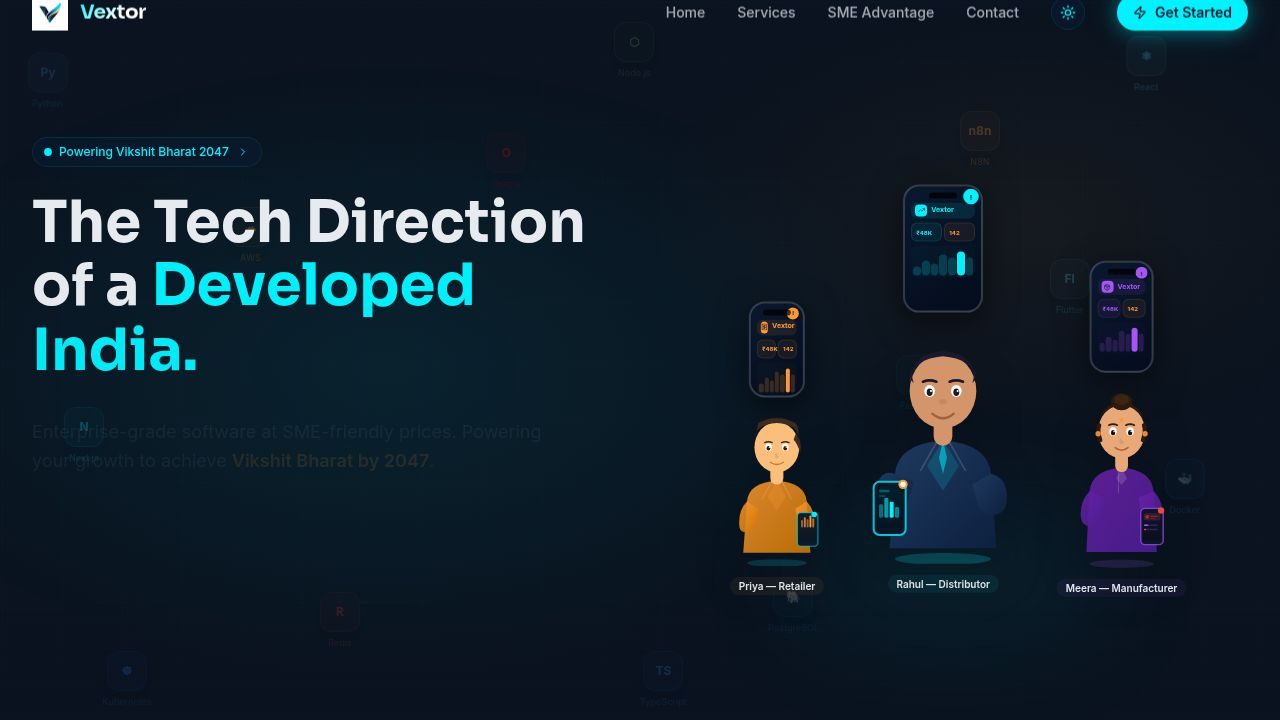
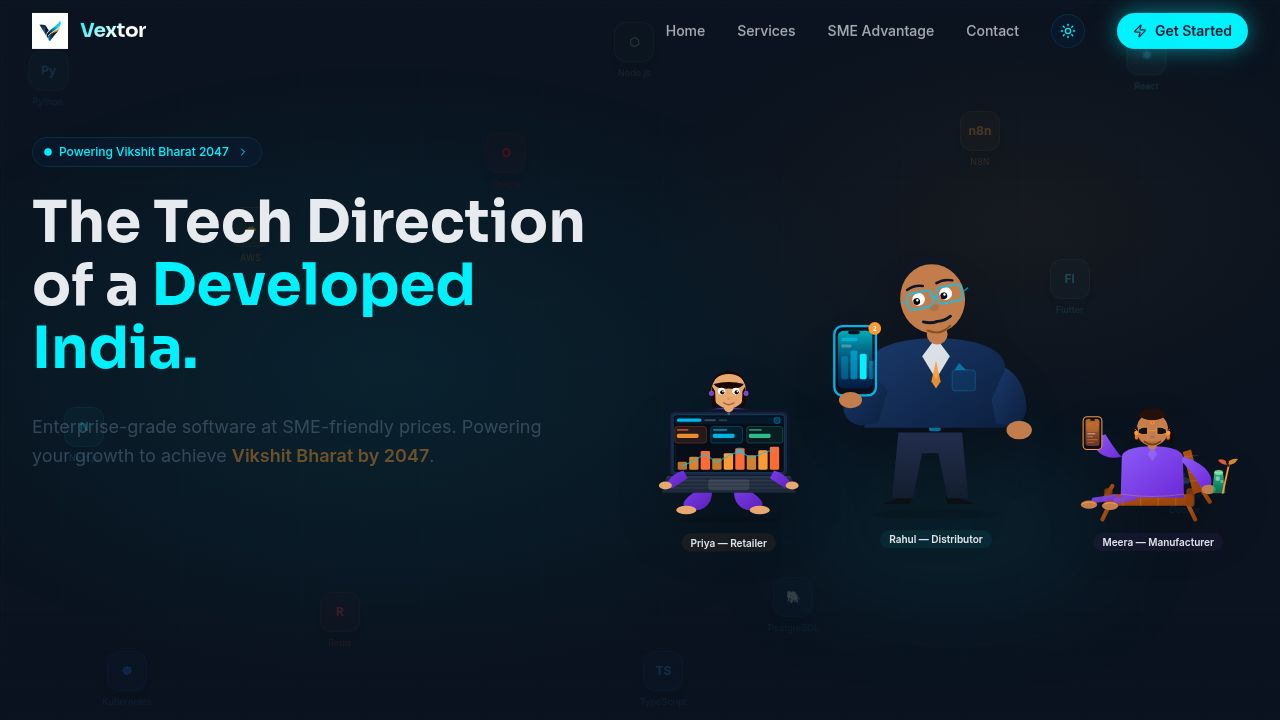
Update character illustration to make laptop the main focus
Rewrite the PersonRetailer component with a corrected viewBox, Z-order, and element coordinates to ensure the laptop is the primary visual element and clearly visible.

Replit-Commit-Author: Agent
Replit-Commit-Session-Id: ac60519d-ee22-433d-b78b-b2dced14c338
Replit-Commit-Checkpoint-Type: full_checkpoint
Replit-Commit-Event-Id: 809c843f-711d-4641-8daa-36c9f2c6302f
Replit-Commit-Screenshot-Url: https://storage.googleapis.com/screenshot-production-us-central1/2904f722-994c-44d7-a856-b37517de9d91/ac60519d-ee22-433d-b78b-b2dced14c338/nio9uct
Replit-Helium-Checkpoint-Created: true

diff --git a/artifacts/vextor-website/src/components/PersonIllustrations.tsx b/artifacts/vextor-website/src/components/PersonIllustrations.tsx
@@ -1,169 +1,130 @@
 /* Professional flat-style character illustrations — transparent backgrounds */
 
-/* ── PRIYA — Professional woman, large glowing laptop front and center ── */
+/* ── PRIYA — Laptop is the hero. Z-order: body → laptop screen → arms → head ── */
 export function PersonRetailer({ className = "" }: { className?: string }) {
   return (
-    <svg viewBox="0 0 240 260" fill="none" xmlns="http://www.w3.org/2000/svg" className={className}>
+    <svg viewBox="0 0 200 220" fill="none" xmlns="http://www.w3.org/2000/svg" className={className}>
       <defs>
-        <linearGradient id="pr3-jacket" x1="0%" y1="0%" x2="100%" y2="100%">
-          <stop offset="0%" stopColor="#0891B2" />
-          <stop offset="100%" stopColor="#0E7490" />
+        <linearGradient id="pr-outfit" x1="0%" y1="0%" x2="100%" y2="100%">
+          <stop offset="0%" stopColor="#7C3AED" />
+          <stop offset="100%" stopColor="#5B21B6" />
         </linearGradient>
-        <linearGradient id="pr3-screen" x1="0%" y1="0%" x2="100%" y2="100%">
-          <stop offset="0%" stopColor="#050D1E" />
-          <stop offset="100%" stopColor="#081525" />
-        </linearGradient>
-        <linearGradient id="pr3-screenglow" x1="0%" y1="100%" x2="0%" y2="0%">
-          <stop offset="0%" stopColor="#FF6B35" stopOpacity="0.08" />
-          <stop offset="100%" stopColor="#00C8FF" stopOpacity="0.06" />
-        </linearGradient>
-        <filter id="pr3-glow">
-          <feGaussianBlur stdDeviation="2" result="blur" />
-          <feComposite in="SourceGraphic" in2="blur" operator="over" />
-        </filter>
       </defs>
 
-      {/* Ground shadow */}
-      <ellipse cx="120" cy="254" rx="80" ry="6" fill="rgba(0,0,0,0.13)" />
+      {/* 1 · Ground shadow */}
+      <ellipse cx="100" cy="216" rx="70" ry="5" fill="rgba(0,0,0,0.15)" />
 
-      {/* ── Legs / Lower body ── */}
-      {/* Left leg forward */}
-      <path d="M78 210 Q56 214 44 228 Q38 238 56 240 Q76 242 88 226 Q94 216 88 208Z" fill="url(#pr3-jacket)" />
-      {/* Right leg */}
-      <path d="M145 210 Q166 214 178 228 Q184 238 166 240 Q146 242 134 226 Q128 216 134 208Z" fill="url(#pr3-jacket)" />
-      {/* Feet */}
-      <ellipse cx="50" cy="240" rx="16" ry="7" fill="#E8A870" />
-      <ellipse cx="172" cy="240" rx="16" ry="7" fill="#E8A870" />
+      {/* 2 · Cross-legged lower body (behind keyboard) */}
+      <path d="M66 172 Q48 176 38 190 Q34 200 50 202 Q66 204 74 190 Q78 181 76 170Z" fill="url(#pr-outfit)" />
+      <path d="M118 172 Q136 176 146 190 Q150 200 134 202 Q118 204 110 190 Q106 181 108 170Z" fill="url(#pr-outfit)" />
+      <ellipse cx="41" cy="202" rx="14" ry="6" fill="#E8A870" />
+      <ellipse cx="143" cy="202" rx="14" ry="6" fill="#E8A870" />
 
-      {/* ── LAPTOP — the star of the show ── */}
+      {/* 3 · Torso (mostly hidden behind laptop, shoulders peek at sides) */}
+      <path d="M55 72 Q57 62 100 60 Q143 62 145 72 L146 160 H54Z" fill="url(#pr-outfit)" />
+      <path d="M100 60 L93 74 L100 84 L107 74Z" fill="rgba(255,255,255,0.88)" />
 
-      {/* Keyboard base with perspective */}
-      <path d="M22 210 L218 210 L225 235 L15 235Z" fill="#1E2D45" />
-      {/* Keyboard surface */}
-      <path d="M26 208 L214 208 L218 210 L22 210Z" fill="#243652" />
-      {/* Key rows (subtle) */}
-      <rect x="30" y="212" width="180" height="3" rx="1.5" fill="rgba(255,255,255,0.06)" />
-      <rect x="30" y="217" width="180" height="3" rx="1.5" fill="rgba(255,255,255,0.05)" />
-      <rect x="30" y="222" width="180" height="3" rx="1.5" fill="rgba(255,255,255,0.04)" />
-      {/* Trackpad */}
-      <rect x="90" y="214" width="60" height="14" rx="3" fill="rgba(255,255,255,0.08)" stroke="rgba(255,255,255,0.12)" strokeWidth="0.6" />
-      {/* Hinge */}
-      <rect x="22" y="205" width="196" height="6" rx="2" fill="#162030" />
+      {/* ━━━━━━━━━━━━━━━━━━━━━━━━━━━━━━━━━━━
+          4 · LAPTOP SCREEN — the hero element
+          Screen: x=15 y=62 w=170 h=96
+          All coordinates fit within 200×220 viewBox
+          ━━━━━━━━━━━━━━━━━━━━━━━━━━━━━━━━━━━ */}
 
-      {/* Screen back (lid) */}
-      <rect x="24" y="95" width="192" height="114" rx="8" fill="#162030" />
-      {/* Screen bezel */}
-      <rect x="28" y="99" width="184" height="106" rx="6" fill="#1A2540" />
-      {/* Screen display area */}
-      <rect x="32" y="103" width="176" height="98" rx="4" fill="url(#pr3-screen)" />
-      {/* Screen background glow */}
-      <rect x="32" y="103" width="176" height="98" rx="4" fill="url(#pr3-screenglow)" />
+      {/* Lid back */}
+      <rect x="15" y="62" width="170" height="96" rx="8" fill="#0B1628" />
+      {/* Bezel frame */}
+      <rect x="19" y="66" width="162" height="88" rx="6" fill="#1A2540" />
+      {/* Display */}
+      <rect x="23" y="70" width="154" height="80" rx="4" fill="#060C18" />
 
-      {/* ── Screen content — dashboard ── */}
-      {/* Top bar */}
-      <rect x="34" y="105" width="172" height="12" rx="2" fill="rgba(0,180,255,0.07)" />
-      <rect x="38" y="108" width="40" height="5" rx="2.5" fill="#00C8FF" opacity="0.8" />
-      <rect x="82" y="109" width="24" height="3" rx="1.5" fill="rgba(255,255,255,0.2)" />
-      <rect x="110" y="109" width="20" height="3" rx="1.5" fill="rgba(255,255,255,0.15)" />
-      {/* User avatar icon top-right */}
-      <circle cx="196" cy="111" r="5" fill="rgba(0,200,255,0.2)" stroke="rgba(0,200,255,0.4)" strokeWidth="0.8" />
+      {/* ── Screen content ── */}
+      {/* Header bar */}
+      <rect x="25" y="72" width="150" height="11" rx="2" fill="rgba(0,180,255,0.07)" />
+      <rect x="28" y="75" width="34" height="4.5" rx="2.2" fill="#00C8FF" opacity="0.9" />
+      <rect x="66" y="76" width="16" height="2.5" rx="1.2" fill="rgba(255,255,255,0.22)" />
+      <rect x="86" y="76" width="12" height="2.5" rx="1.2" fill="rgba(255,255,255,0.15)" />
+      <circle cx="167" cy="77.5" r="4.5" fill="rgba(0,200,255,0.22)" stroke="rgba(0,200,255,0.5)" strokeWidth="0.8" />
 
-      {/* Metric cards row */}
-      <rect x="34" y="121" width="52" height="28" rx="4" fill="rgba(255,107,53,0.1)" stroke="rgba(255,107,53,0.3)" strokeWidth="0.8" />
-      <rect x="38" y="124" width="18" height="3" rx="1.5" fill="rgba(255,107,53,0.6)" />
-      <rect x="38" y="130" width="30" height="7" rx="2" fill="rgba(255,107,53,0)" />
-      <text x="38" y="138" fontSize="9" fill="#FF9933" fontFamily="sans-serif" fontWeight="bold">₹2.4L</text>
+      {/* Stat cards */}
+      <rect x="25" y="86" width="44" height="23" rx="3.5" fill="rgba(255,107,53,0.13)" stroke="rgba(255,107,53,0.45)" strokeWidth="0.8" />
+      <rect x="28" y="89.5" width="16" height="2.5" rx="1.2" fill="rgba(255,107,53,0.65)" />
+      <rect x="28" y="96" width="30" height="6" rx="2" fill="#FF9933" opacity="0.9" />
 
-      <rect x="92" y="121" width="52" height="28" rx="4" fill="rgba(0,200,255,0.08)" stroke="rgba(0,200,255,0.25)" strokeWidth="0.8" />
-      <rect x="96" y="124" width="22" height="3" rx="1.5" fill="rgba(0,200,255,0.5)" />
-      <text x="96" y="138" fontSize="9" fill="#00C8FF" fontFamily="sans-serif" fontWeight="bold">+18%</text>
+      <rect x="75" y="86" width="44" height="23" rx="3.5" fill="rgba(0,200,255,0.09)" stroke="rgba(0,200,255,0.42)" strokeWidth="0.8" />
+      <rect x="78" y="89.5" width="20" height="2.5" rx="1.2" fill="rgba(0,200,255,0.6)" />
+      <rect x="78" y="96" width="30" height="6" rx="2" fill="#00C8FF" opacity="0.88" />
 
-      <rect x="150" y="121" width="52" height="28" rx="4" fill="rgba(52,211,153,0.08)" stroke="rgba(52,211,153,0.25)" strokeWidth="0.8" />
-      <rect x="154" y="124" width="20" height="3" rx="1.5" fill="rgba(52,211,153,0.5)" />
-      <text x="154" y="138" fontSize="9" fill="#34D399" fontFamily="sans-serif" fontWeight="bold">142</text>
+      <rect x="125" y="86" width="50" height="23" rx="3.5" fill="rgba(52,211,153,0.09)" stroke="rgba(52,211,153,0.42)" strokeWidth="0.8" />
+      <rect x="128" y="89.5" width="18" height="2.5" rx="1.2" fill="rgba(52,211,153,0.6)" />
+      <rect x="128" y="96" width="30" height="6" rx="2" fill="#34D399" opacity="0.88" />
 
       {/* Bar chart */}
-      <line x1="36" y1="154" x2="36" y2="193" stroke="rgba(255,255,255,0.1)" strokeWidth="1" />
-      <line x1="36" y1="193" x2="200" y2="193" stroke="rgba(255,255,255,0.1)" strokeWidth="1" />
-      {/* Bars — tall and vibrant */}
-      <rect x="40" y="176" width="14" height="17" rx="2.5" fill="#FF9933" opacity="0.75" />
-      <rect x="58" y="165" width="14" height="28" rx="2.5" fill="#FF9933" opacity="0.9" />
-      <rect x="76" y="157" width="14" height="36" rx="2.5" fill="#FF6B35" />
-      <rect x="94" y="168" width="14" height="25" rx="2.5" fill="#FF9933" opacity="0.8" />
-      <rect x="112" y="160" width="14" height="33" rx="2.5" fill="#FF9933" />
-      <rect x="130" y="154" width="14" height="39" rx="2.5" fill="#FF6B35" />
-      <rect x="148" y="163" width="14" height="30" rx="2.5" fill="#FF9933" opacity="0.85" />
-      <rect x="166" y="159" width="14" height="34" rx="2.5" fill="#FF9933" />
-      <rect x="184" y="155" width="14" height="38" rx="2.5" fill="#FF6B35" />
-      {/* Chart line overlay */}
-      <path d="M47 184 L65 173 L83 161 L101 175 L119 164 L137 158 L155 170 L173 163 L191 159" stroke="rgba(0,200,255,0.6)" strokeWidth="1.5" fill="none" strokeDasharray="3,2" />
-      {/* Cursor glow */}
-      <circle cx="137" cy="158" r="3.5" fill="#00C8FF" opacity="0.9" />
-      <circle cx="137" cy="158" r="7" fill="rgba(0,200,255,0.2)" />
+      <line x1="26" y1="112" x2="26" y2="146" stroke="rgba(255,255,255,0.09)" strokeWidth="0.8" />
+      <line x1="26" y1="146" x2="174" y2="146" stroke="rgba(255,255,255,0.09)" strokeWidth="0.8" />
 
-      {/* Screen edge glow */}
-      <rect x="32" y="103" width="176" height="98" rx="4" fill="none" stroke="rgba(0,200,255,0.18)" strokeWidth="1" />
-      {/* Screen glare highlight */}
-      <path d="M34 105 L120 105 L100 115 L34 115Z" fill="rgba(255,255,255,0.025)" />
+      <rect x="29" y="135" width="13" height="11" rx="2" fill="#FF9933" opacity="0.72" />
+      <rect x="45" y="128" width="13" height="18" rx="2" fill="#FF9933" opacity="0.85" />
+      <rect x="61" y="120" width="13" height="26" rx="2" fill="#FF6B35" />
+      <rect x="77" y="130" width="13" height="16" rx="2" fill="#FF9933" opacity="0.78" />
+      <rect x="93" y="123" width="13" height="23" rx="2" fill="#FF9933" />
+      <rect x="109" y="116" width="13" height="30" rx="2" fill="#FF6B35" />
+      <rect x="125" y="126" width="13" height="20" rx="2" fill="#FF9933" opacity="0.82" />
+      <rect x="141" y="119" width="13" height="27" rx="2" fill="#FF9933" />
+      <rect x="157" y="114" width="13" height="32" rx="2" fill="#FF6B35" />
 
-      {/* Notch (webcam) */}
-      <circle cx="120" cy="101" r="2.5" fill="rgba(255,255,255,0.15)" />
+      {/* Trend line */}
+      <path d="M35 141 L51 134 L67 124 L83 136 L99 127 L115 120 L131 130 L147 123 L163 118"
+        stroke="rgba(0,200,255,0.72)" strokeWidth="1.6" fill="none" />
+      {/* Cursor */}
+      <circle cx="115" cy="120" r="2.5" fill="#00C8FF" />
+      <circle cx="115" cy="120" r="5.5" fill="rgba(0,200,255,0.22)" />
 
-      {/* ── Character — visible above screen ── */}
+      {/* Screen glow border */}
+      <rect x="23" y="70" width="154" height="80" rx="4" fill="none" stroke="rgba(0,200,255,0.22)" strokeWidth="1.2" />
+      {/* Webcam */}
+      <circle cx="100" cy="68" r="2.2" fill="rgba(255,255,255,0.22)" />
 
-      {/* Left arm reaching to keyboard */}
-      <path d="M44 175 Q28 178 22 195 L30 200 L50 185Z" fill="url(#pr3-jacket)" />
-      <ellipse cx="22" cy="198" rx="10" ry="6" fill="#E8A870" />
-      {/* Right arm */}
-      <path d="M196 175 Q212 178 218 195 L210 200 L190 185Z" fill="url(#pr3-jacket)" />
-      <ellipse cx="218" cy="198" rx="10" ry="6" fill="#E8A870" />
+      {/* ━━━━━━━━━━━━━━━━━━━━━━━━━━━━━
+          5 · KEYBOARD BASE (over legs)
+          ━━━━━━━━━━━━━━━━━━━━━━━━━━━━━ */}
+      <path d="M13 157 L187 157 L193 178 L7 178Z" fill="#1E293B" />
+      <path d="M15 155 L185 155 L187 157 L13 157Z" fill="#334155" />
+      <rect x="19" y="160" width="162" height="2.5" rx="1.2" fill="rgba(255,255,255,0.07)" />
+      <rect x="19" y="165" width="162" height="2.5" rx="1.2" fill="rgba(255,255,255,0.06)" />
+      <rect x="19" y="170" width="162" height="2.5" rx="1.2" fill="rgba(255,255,255,0.05)" />
+      <rect x="72" y="160" width="56" height="14" rx="3" fill="rgba(255,255,255,0.09)" stroke="rgba(255,255,255,0.13)" strokeWidth="0.6" />
 
-      {/* Torso — visible at sides and above laptop */}
-      <path d="M58 120 Q60 100 120 98 Q180 100 182 120 L184 212 H56Z" fill="url(#pr3-jacket)" />
-      {/* White collar */}
-      <path d="M120 98 L112 112 L120 122 L128 112Z" fill="rgba(255,255,255,0.9)" />
-      {/* Jacket lapels */}
-      <path d="M112 112 L68 130 L60 180" stroke="rgba(255,255,255,0.25)" strokeWidth="1.5" fill="none" />
-      <path d="M128 112 L172 130 L180 180" stroke="rgba(255,255,255,0.25)" strokeWidth="1.5" fill="none" />
+      {/* 6 · Arms reaching around to keyboard */}
+      <path d="M37 147 Q21 151 13 166 L21 172 L43 158Z" fill="url(#pr-outfit)" />
+      <ellipse cx="12" cy="168" rx="9" ry="5.5" fill="#E8A870" />
+      <path d="M163 147 Q179 151 187 166 L179 172 L157 158Z" fill="url(#pr-outfit)" />
+      <ellipse cx="188" cy="168" rx="9" ry="5.5" fill="#E8A870" />
 
-      {/* Neck */}
-      <rect x="112" y="84" width="16" height="18" rx="8" fill="#E8A870" />
+      {/* 7 · Neck */}
+      <rect x="93" y="52" width="14" height="14" rx="7" fill="#E8A870" />
 
-      {/* ── Head — new character ── */}
-      <ellipse cx="120" cy="68" rx="28" ry="29" fill="#E8A870" />
+      {/* 8 · Head */}
+      <ellipse cx="100" cy="36" rx="24" ry="25" fill="#E8A870" />
 
-      {/* Hair — straight black bob with fringe */}
-      {/* Top and sides */}
-      <path d="M93 62 Q92 36 120 34 Q148 36 148 62 Q146 40 120 38 Q94 40 93 62Z" fill="#1A0800" />
-      {/* Bob cut sides — straight */}
-      <path d="M93 62 L90 82 Q92 90 96 88 L96 62Z" fill="#1A0800" />
-      <path d="M148 62 L150 82 Q148 90 144 88 L144 62Z" fill="#1A0800" />
-      {/* Fringe/bangs across forehead */}
-      <path d="M95 52 Q120 46 145 52 Q140 60 120 58 Q100 60 95 52Z" fill="#1A0800" />
+      {/* 9 · Hair — straight bob with fringe */}
+      <path d="M77 30 Q77 11 100 9 Q123 11 123 30 Q121 14 100 13 Q79 14 77 30Z" fill="#1A0800" />
+      <path d="M77 30 Q75 44 77 56 Q79 62 83 59 Q81 49 81 37Z" fill="#1A0800" />
+      <path d="M123 30 Q125 44 123 56 Q121 62 117 59 Q119 49 119 37Z" fill="#1A0800" />
+      <path d="M79 27 Q100 21 121 27 Q116 35 100 33 Q84 35 79 27Z" fill="#1A0800" />
 
-      {/* Eyes — wide, almond shaped */}
-      <ellipse cx="106" cy="66" rx="6" ry="5.5" fill="white" />
-      <ellipse cx="134" cy="66" rx="6" ry="5.5" fill="white" />
-      {/* Pupils */}
-      <ellipse cx="107" cy="67.5" rx="3.2" ry="3.2" fill="#1A0800" />
-      <ellipse cx="135" cy="67.5" rx="3.2" ry="3.2" fill="#1A0800" />
-      <circle cx="108" cy="66.5" r="1.2" fill="white" />
-      <circle cx="136" cy="66.5" r="1.2" fill="white" />
-
-      {/* Eyebrows — neat, arched */}
-      <path d="M99 57 Q106 54 113 56" stroke="#1A0800" strokeWidth="2.2" strokeLinecap="round" fill="none" />
-      <path d="M127 56 Q134 54 141 57" stroke="#1A0800" strokeWidth="2.2" strokeLinecap="round" fill="none" />
-
-      {/* Nose */}
-      <path d="M119 75 Q117 79 119 81 Q121 81 123 79 Q121 79 119 75Z" fill="rgba(0,0,0,0.08)" />
-
-      {/* Smile — warm and focused */}
-      <path d="M110 87 Q120 93 130 87" stroke="#B56030" strokeWidth="2" strokeLinecap="round" fill="none" />
-      <path d="M110 87 Q115 91 120 92 Q125 91 130 87" fill="rgba(181,96,48,0.15)" />
-
-      {/* Stud earrings — teal */}
-      <circle cx="92" cy="71" r="3.5" fill="#0891B2" stroke="rgba(255,255,255,0.4)" strokeWidth="0.8" />
-      <circle cx="148" cy="71" r="3.5" fill="#0891B2" stroke="rgba(255,255,255,0.4)" strokeWidth="0.8" />
+      {/* 10 · Face */}
+      <ellipse cx="90" cy="37" rx="5.2" ry="4.8" fill="white" />
+      <ellipse cx="110" cy="37" rx="5.2" ry="4.8" fill="white" />
+      <ellipse cx="91" cy="38.5" rx="2.9" ry="2.9" fill="#1A0800" />
+      <ellipse cx="111" cy="38.5" rx="2.9" ry="2.9" fill="#1A0800" />
+      <circle cx="92" cy="37.5" r="1.1" fill="white" />
+      <circle cx="112" cy="37.5" r="1.1" fill="white" />
+      <path d="M84 29.5 Q90 27 96 29" stroke="#1A0800" strokeWidth="2" strokeLinecap="round" fill="none" />
+      <path d="M104 29 Q110 27 116 29.5" stroke="#1A0800" strokeWidth="2" strokeLinecap="round" fill="none" />
+      <path d="M99 44 Q97 47.5 99 49.5 Q101 49.5 103 47.5 Q101 47.5 99 44Z" fill="rgba(0,0,0,0.09)" />
+      <path d="M93 53 Q100 58.5 107 53" stroke="#B06030" strokeWidth="2" strokeLinecap="round" fill="none" />
+      <circle cx="76" cy="40" r="3.2" fill="#7C3AED" stroke="rgba(255,255,255,0.3)" strokeWidth="0.8" />
+      <circle cx="124" cy="40" r="3.2" fill="#7C3AED" stroke="rgba(255,255,255,0.3)" strokeWidth="0.8" />
     </svg>
   );
 }
@@ -320,7 +281,7 @@ export function PersonManufacturer({ className = "" }: { className?: string }) {
       <line x1="180" y1="162" x2="180" y2="182" stroke="rgba(255,255,255,0.15)" strokeWidth="1.5" />
 
       {/* Chair backrest — angled upward to the right */}
-      <path d="M192 90 L210 162 L224 158 L206 86Z" fill="url(#mf2-chair)" rx="4" />
+      <path d="M192 90 L210 162 L224 158 L206 86Z" fill="url(#mf2-chair)" />
       {/* Backrest slats */}
       <line x1="195" y1="98" x2="218" y2="96" stroke="rgba(255,255,255,0.15)" strokeWidth="1.5" />
       <line x1="198" y1="112" x2="220" y2="110" stroke="rgba(255,255,255,0.15)" strokeWidth="1.5" />
@@ -423,9 +384,6 @@ export function PersonManufacturer({ className = "" }: { className?: string }) {
       <line x1="132" y1="54" x2="148" y2="54" stroke="#FF9933" strokeWidth="1.4" />
       <line x1="114" y1="54" x2="110" y2="51" stroke="#FF9933" strokeWidth="1.3" />
       <line x1="166" y1="54" x2="170" y2="51" stroke="#FF9933" strokeWidth="1.3" />
-      {/* Lens glare */}
-      <ellipse cx="122" cy="52" rx="5" ry="3" fill="rgba(0,242,255,0.1)" />
-      <ellipse cx="156" cy="52" rx="5" ry="3" fill="rgba(0,242,255,0.1)" />
 
       {/* Big relaxed smile */}
       <path d="M126 72 Q140 83 154 72" stroke="#7A3A10" strokeWidth="2.5" strokeLinecap="round" fill="none" />
